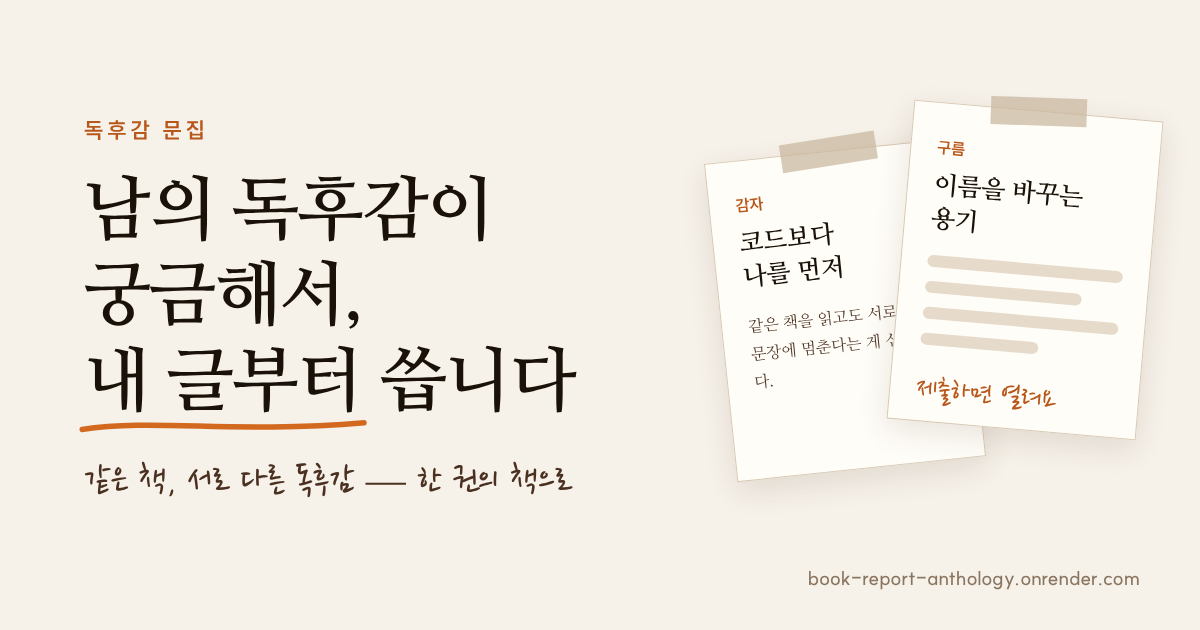
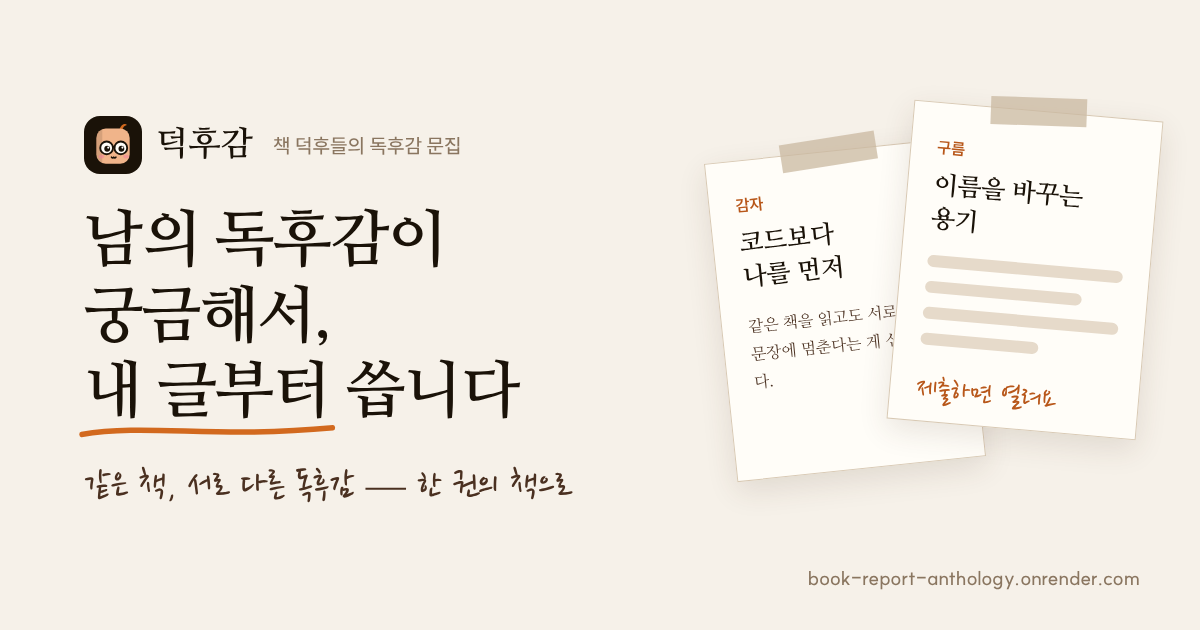
feat: 서비스 이름을 덕후감으로, 안경 쓴 책 캐릭터 로고 (펫 0.4.1)
- 이름: 남의 독후감 → 덕후감 (책 덕후들의 독후감 문집). 화면 제목·공유 태그·머리글·바닥글·PDF 판권
- 로고: 말랑한 책 몸에 큰 안경·반짝 눈·볼터치·삐친 책갈피. 머리글 마크와 파비콘
- 카톡 미리보기 이미지, 펫 앱 아이콘·메뉴 막대 아이콘·앱 표시 이름(덕후감 펫)

Claude-Session: https://claude.ai/code/session_01QKU9nZ4Fv2iAKyVgVgtSU9

Changed region(s): [[0.0617, 0.181, 0.4933, 0.6937], [0.0617, 0.7238, 0.4933, 0.7841]]

diff --git a/src/main/resources/templates/fragments/layout.html b/src/main/resources/templates/fragments/layout.html
@@ -6,13 +6,13 @@
   <meta name="viewport" content="width=device-width, initial-scale=1">
   <meta name="referrer" content="same-origin">
   <meta name="theme-color" content="#F6F1E9">
-  <title th:text="${title} + ' · 남의 독후감'">남의 독후감</title>
+  <title th:text="${title} + ' · 덕후감'">덕후감</title>
   <meta name="description" th:content="${ogDescription} ?: '같은 책을 읽은 사람들의 독후감을 한 권으로. 내 글을 내면 남의 글이 열려요.'">
   <!-- 카톡·슬랙 공유 미리보기 -->
   <meta property="og:type" content="website">
-  <meta property="og:site_name" content="남의 독후감">
+  <meta property="og:site_name" content="덕후감">
   <meta property="og:locale" content="ko_KR">
-  <meta property="og:title" th:content="${ogTitle} ?: ${title} + ' · 남의 독후감'">
+  <meta property="og:title" th:content="${ogTitle} ?: ${title} + ' · 덕후감'">
   <meta property="og:description" th:content="${ogDescription} ?: '같은 책을 읽은 사람들의 독후감을 한 권으로. 내 글을 내면 남의 글이 열려요.'">
   <meta property="og:image" th:content="${baseUrl != null} ? ${baseUrl} + '/img/og.png' : '/img/og.png'">
   <meta property="og:image:width" content="1200">
@@ -30,9 +30,9 @@
 
 <header class="site-header" th:fragment="header">
   <div class="wrap">
-    <a class="brand" th:href="@{/}" aria-label="남의 독후감 처음으로">
+    <a class="brand" th:href="@{/}" aria-label="덕후감 처음으로">
       <span class="brand-mark" th:insert="~{fragments/layout :: mark}"></span>
-      남의 독후감
+      덕후감
     </a>
     <nav class="site-nav" aria-label="주요 메뉴">
       <a th:href="@{/#how}">하는 법</a>
@@ -46,9 +46,17 @@
 </header>
 
 <svg th:fragment="mark" viewBox="0 0 40 40" aria-hidden="true">
-  <circle cx="20" cy="20" r="19" fill="#1A1208"/>
-  <path d="M10 13.5c3.4-2 6.8-2 10 .4v14.6c-3.2-2.4-6.6-2.4-10-.4z" fill="#FFFDF8"/>
-  <path d="M30 13.5c-3.4-2-6.8-2-10 .4v14.6c3.2-2.4 6.6-2.4 10-.4z" fill="#D2691E"/>
+<rect width="40" height="40" rx="11" fill="#1A1208"/>
+<path d="M24.5 9.2 C25.5 5.6 28.6 4.6 29.6 6.2 C27.6 6.6 26.8 8 26.6 9.6z" fill="#D2691E"/>
+<rect x="8.5" y="8.6" width="23" height="24.4" rx="6.5" fill="#F0B48A"/>
+<path d="M12.6 8.9a6.5 6.5 0 0 0-4.1 6.2v11.4a6.5 6.5 0 0 0 4.1 6.2z" fill="#1A1208" opacity=".12"/>
+<circle cx="15.6" cy="22" r="4.4" fill="#FFFDF8" stroke="#1A1208" stroke-width="1.3"/>
+<circle cx="25.4" cy="22" r="4.4" fill="#FFFDF8" stroke="#1A1208" stroke-width="1.3"/>
+<path d="M20 21.4q.5-.7 1 0" stroke="#1A1208" stroke-width="1.2" fill="none" stroke-linecap="round"/>
+<circle cx="16" cy="22.6" r="2" fill="#1A1208"/><circle cx="25.8" cy="22.6" r="2" fill="#1A1208"/>
+<circle cx="16.7" cy="21.8" r=".7" fill="#fff"/><circle cx="26.5" cy="21.8" r=".7" fill="#fff"/>
+<ellipse cx="12" cy="28" rx="2" ry="1.3" fill="#F2829A" opacity=".55"/><ellipse cx="29" cy="28" rx="2" ry="1.3" fill="#F2829A" opacity=".55"/>
+<path d="M19 28.4q.75.9 1.5 0q.75.9 1.5 0" stroke="#1A1208" stroke-width="1.1" fill="none" stroke-linecap="round" stroke-linejoin="round"/>
 </svg>
 
 <!-- 손으로 그린 동그라미. d는 그려지는 순서(지연) -->
@@ -72,7 +80,7 @@
 
 <footer class="site-footer" th:fragment="footer">
   <div class="wrap">
-    <span>남의 독후감 — 같은 책을 읽은 사람들의 독후감을 한 권으로.</span>
+    <span>덕후감 — 책 덕후들의 독후감을 한 권으로.</span>
     <span>인용의 저작권은 원서에, 독후감의 저작권은 쓴 사람에게 있습니다.</span>
   </div>
 </footer>

diff --git a/desktop/src/main.js b/desktop/src/main.js
@@ -1,4 +1,4 @@
-// 남의 독후감 펫: 모임방의 내 아바타를 바탕화면 위에 띄운다.
+// 덕후감 펫: 모임방의 내 아바타를 바탕화면 위에 띄운다.
 // 창은 투명하고 항상 위에 있으며, 아바타·말풍선·대화창이 아닌 곳의 클릭은 뒤의 앱으로 지나간다.
 const { app, BrowserWindow, Tray, Menu, ipcMain, screen, shell, nativeImage } = require('electron');
 const fs = require('node:fs');
@@ -70,7 +70,7 @@ function guard(win) {
 function openSetup(message) {
   if (setup) { setup.show(); app.focus({ steal: true }); setup.focus(); return; }
   setup = new BrowserWindow({
-    width: 420, height: 330, resizable: false, title: '남의 독후감 펫', show: false,
+    width: 420, height: 330, resizable: false, title: '덕후감 펫', show: false,
     webPreferences: { preload: path.join(__dirname, 'preload.js'), contextIsolation: true, sandbox: true },
   });
   guard(setup);
@@ -97,7 +97,7 @@ function openPet(link) {
     ...SIZE.collapsed, ...start,
     transparent: true, frame: false, resizable: false, movable: true, hasShadow: false,
     alwaysOnTop: true, skipTaskbar: true, fullscreenable: false, show: false,
-    backgroundColor: '#00000000', title: '남의 독후감 펫',
+    backgroundColor: '#00000000', title: '덕후감 펫',
     webPreferences: { preload: path.join(__dirname, 'preload.js'), contextIsolation: true, sandbox: true },
   });
   pet.setAlwaysOnTop(true, 'floating');
@@ -268,7 +268,7 @@ function buildTray() {
   const icon = nativeImage.createFromPath(path.join(__dirname, '..', 'build',
     process.platform === 'darwin' ? 'trayTemplate.png' : 'tray.png'));
   tray = new Tray(icon.isEmpty() ? nativeImage.createEmpty() : icon);
-  tray.setToolTip('남의 독후감 펫');
+  tray.setToolTip('덕후감 펫');
   const openRoom = async () => {
     const url = await currentRoomUrl();
     if (url && sameOrigin(url)) shell.openExternal(url);
@@ -292,7 +292,7 @@ function buildTray() {
           { label: '업데이트 기록 보기', click: () => shell.openPath(updater.logFile()) },
         ];
     tray.setContextMenu(Menu.buildFromTemplate([
-      { label: `남의 독후감 펫 ${app.getVersion()}`, enabled: false },
+      { label: `덕후감 펫 ${app.getVersion()}`, enabled: false },
       ...updateItems,
       { type: 'separator' },
       ...(pet && pet.isVisible() ? [] : [{ label: '펫 다시 띄우기', click: () => {

diff --git a/src/main/resources/templates/anthologies/pet.html b/src/main/resources/templates/anthologies/pet.html
@@ -4,7 +4,7 @@
   <meta charset="UTF-8">
   <meta name="viewport" content="width=device-width, initial-scale=1">
   <meta name="referrer" content="same-origin">
-  <title>남의 독후감 펫</title>
+  <title>덕후감 펫</title>
   <link rel="stylesheet" href="https://cdn.jsdelivr.net/npm/@sun-typeface/suit@2/fonts/variable/woff2/SUIT-Variable.css">
   <link rel="stylesheet" href="https://fonts.googleapis.com/css2?family=Nanum+Pen+Script&display=swap">
   <link rel="stylesheet" th:href="@{/css/pet.css}">

diff --git a/desktop/src/setup.html b/desktop/src/setup.html
@@ -3,7 +3,7 @@
 <head>
   <meta charset="UTF-8">
   <meta http-equiv="Content-Security-Policy" content="default-src 'none'; style-src 'unsafe-inline'; script-src 'self'">
-  <title>남의 독후감 펫</title>
+  <title>덕후감 펫</title>
   <style>
     body { margin: 0; padding: 26px 28px; font-family: -apple-system, "Apple SD Gothic Neo", "Malgun Gothic", system-ui, sans-serif; background: #F6F1E9; color: #1A1208; }
     h1 { margin: 0 0 6px; font-size: 19px; }

diff --git a/src/main/resources/templates/index.html b/src/main/resources/templates/index.html
@@ -1,6 +1,6 @@
 <!DOCTYPE html>
 <html lang="ko" xmlns:th="http://www.thymeleaf.org">
-<head th:replace="~{fragments/layout :: head('같은 책, 남의 독후감')}"></head>
+<head th:replace="~{fragments/layout :: head('책 덕후들의 독후감 문집')}"></head>
 <body class="has-cta">
 <header th:replace="~{fragments/layout :: header}"></header>
 

diff --git a/src/main/resources/static/css/app.css b/src/main/resources/static/css/app.css
@@ -1,4 +1,4 @@
-/* 남의 독후감 — 종이 위에 잉크로 쓴 문집. 토큰은 docs/design-language.md 참고. */
+/* 덕후감 — 종이 위에 잉크로 쓴 문집. 토큰은 docs/design-language.md 참고. */
 
 :root {
   --paper: #F6F1E9;

diff --git a/src/main/resources/static/js/app.js b/src/main/resources/static/js/app.js
@@ -1,4 +1,4 @@
-// 남의 독후감 화면 효과. 번들러 없이 그대로 쓴다.
+// 덕후감 화면 효과. 번들러 없이 그대로 쓴다.
 (() => {
   const reduced = window.matchMedia('(prefers-reduced-motion: reduce)').matches;
 

diff --git a/src/main/java/com/iq/anthology/book/PdfBook.java b/src/main/java/com/iq/anthology/book/PdfBook.java
@@ -68,7 +68,7 @@ public final class PdfBook {
             document.addTitle(manuscript.title());
             document.addAuthor(String.join(", ", manuscript.bylines()));
             document.addSubject(manuscript.readLine());
-            document.addCreator("남의 독후감");
+            document.addCreator("덕후감");
             document.open();
 
             titlePage(document, manuscript, fonts);

diff --git a/CLAUDE.md b/CLAUDE.md
@@ -1,4 +1,4 @@
-# CLAUDE.md — 남의 독후감 (가칭)
+# CLAUDE.md — 덕후감
 
 같은 책을 읽은 사람들이 각자 독후감을 한 편씩 쓰고, 한 권의 EPUB 문집으로 엮는 서비스.
 핵심 경험: "남의 독후감이 궁금해서 산다" — 내 글을 제출해야 남의 글이 열린다.

diff --git a/docs/design.md b/docs/design.md
@@ -1,4 +1,4 @@
-# 남의 독후감 (가칭) 설계
+# 덕후감 설계
 
 같은 책 한 권을 읽은 사람들이 각자 독후감을 한 편씩 쓰고, 그 글을 한 권의 전자책(EPUB) 문집으로 엮는다.
 

diff --git a/desktop/README.md b/desktop/README.md
@@ -1,4 +1,4 @@
-# 남의 독후감 펫
+# 덕후감 펫
 
 모임방의 내 아바타가 바탕화면 위에 떠 있어요. 모임방에 새 말이 오면 머리 위로 말풍선이 떠요.
 

diff --git a/README.md b/README.md
@@ -1,4 +1,4 @@
-# 남의 독후감 (가칭)
+# 덕후감
 
 > 같은 책을 읽은 사람들은 무슨 생각을 했을까.
 
